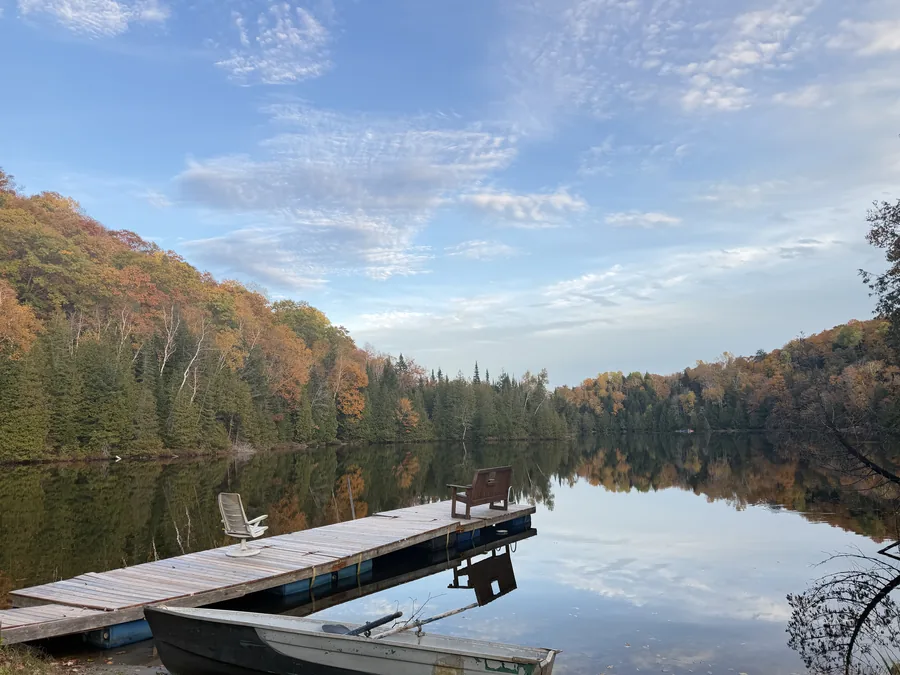
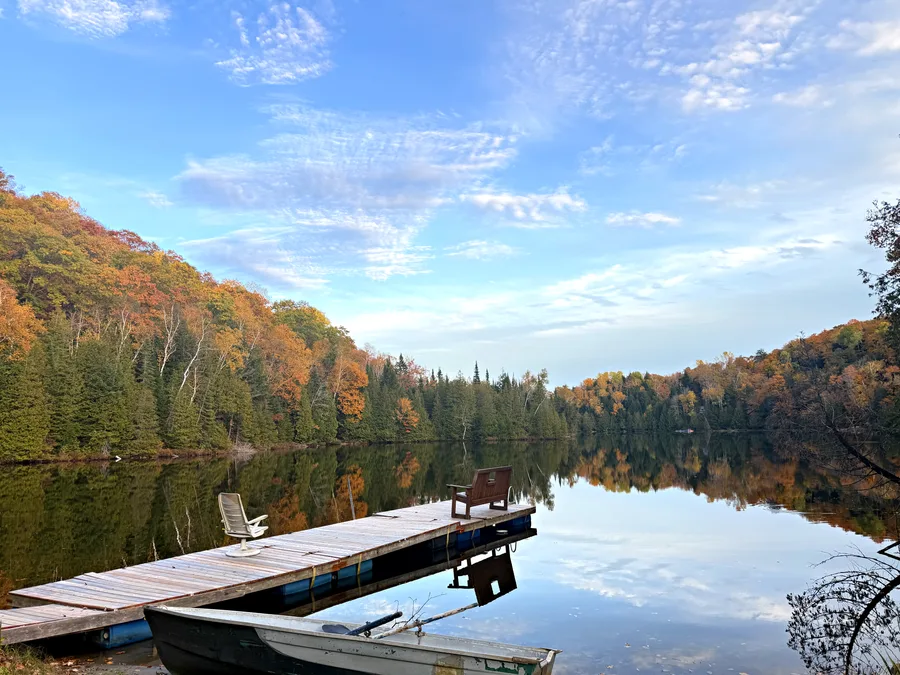
Refresh the Gallery with four Ontario photos
- Remove the barn path and canal clouds photos (Upper Canada Village)
- Add Mazinaw Rock and a starry night at Bon Echo, a tall ship in
  Toronto Harbour and storm clouds over Fort Niagara
- Restore the unfiltered whale photo
- Bring out the autumn colours in the lake dock photo

diff --git a/index.html b/index.html
@@ -455,6 +455,12 @@
                 <figcaption>Dusk over the reeds<span class="gallery-meta">Ste-Eulalie, QC · April 2024</span></figcaption>
             </figure>
             <figure class="gallery-item">
+                <button type="button" class="gallery-open" data-full="assets/img/gallery/mazinaw-rock.webp" aria-label="View larger: Mazinaw Rock above clear water">
+                    <img src="assets/img/gallery/mazinaw-rock-sm.webp" alt="Tall grey cliffs of Mazinaw Rock, topped with pines, rising from a lake with kayakers small at their foot, and clear shallow water over pebbles in front" width="780" height="900" loading="lazy">
+                </button>
+                <figcaption>Mazinaw Rock above clear water<span class="gallery-meta">Bon Echo Provincial Park, ON · August 2024</span></figcaption>
+            </figure>
+            <figure class="gallery-item">
                 <button type="button" class="gallery-open" data-full="assets/img/gallery/autumn-hill-mirror.webp" aria-label="View larger: An autumn hill mirrored at dusk">
                     <img src="assets/img/gallery/autumn-hill-mirror-sm.webp" alt="A hill of autumn forest reflected in a still lake under pink-tinged evening clouds" width="675" height="900" loading="lazy">
                 </button>
@@ -557,6 +563,12 @@
                 <figcaption>Snow on the crabapple branches<span class="gallery-meta">Quebec City, QC · January 2020</span></figcaption>
             </figure>
             <figure class="gallery-item">
+                <button type="button" class="gallery-open" data-full="assets/img/gallery/fort-niagara-storm.webp" aria-label="View larger: Storm clouds over Fort Niagara">
+                    <img src="assets/img/gallery/fort-niagara-storm-sm.webp" alt="Low grey storm clouds filling the sky above the stone walls and white buildings of Fort Niagara, seen across the green water of the Niagara River" width="675" height="900" loading="lazy">
+                </button>
+                <figcaption>Storm clouds over Fort Niagara<span class="gallery-meta">Niagara-on-the-Lake, ON · June 2024</span></figcaption>
+            </figure>
+            <figure class="gallery-item">
                 <button type="button" class="gallery-open" data-full="assets/img/gallery/forest-canopy-autumn.webp" aria-label="View larger: Under the first autumn colours">
                     <img src="assets/img/gallery/forest-canopy-autumn-sm.webp" alt="Looking up past tall trunks into a forest canopy turning red, orange and green, with mossy boulders below" width="675" height="900" loading="lazy">
                 </button>
@@ -629,10 +641,10 @@
                 <figcaption>An autumn cascade<span class="gallery-meta">Stoneham-et-Tewkesbury, QC · October 2020</span></figcaption>
             </figure>
             <figure class="gallery-item">
-                <button type="button" class="gallery-open" data-full="assets/img/gallery/village-canal-clouds.webp" aria-label="View larger: Spring clouds over the canal">
-                    <img src="assets/img/gallery/village-canal-clouds-sm.webp" alt="Big white clouds in a blue sky above a quiet canal, a lone bare tree and village houses along the bank" width="675" height="900" loading="lazy">
+                <button type="button" class="gallery-open" data-full="assets/img/gallery/toronto-tall-ship.webp" aria-label="View larger: A tall ship under gathering clouds">
+                    <img src="assets/img/gallery/toronto-tall-ship-sm.webp" alt="A three-masted tall ship on Lake Ontario in front of the Toronto skyline, under heavy grey and white clouds" width="900" height="645" loading="lazy">
                 </button>
-                <figcaption>Spring clouds over the canal<span class="gallery-meta">Upper Canada Village, ON · May 2023</span></figcaption>
+                <figcaption>A tall ship under gathering clouds<span class="gallery-meta">Toronto, ON · July 2021</span></figcaption>
             </figure>
             <figure class="gallery-item">
                 <button type="button" class="gallery-open" data-full="assets/img/gallery/autumn-forest-road.webp" aria-label="View larger: A forest road in autumn">
@@ -659,10 +671,10 @@
                 <figcaption>Percé Rock at the end of the day<span class="gallery-meta">Percé, QC · August 2024</span></figcaption>
             </figure>
             <figure class="gallery-item">
-                <button type="button" class="gallery-open" data-full="assets/img/gallery/village-barn-path.webp" aria-label="View larger: The old barn and its path">
-                    <img src="assets/img/gallery/village-barn-path-sm.webp" alt="Seen from above, a curving dirt path leading to a dark wooden barn on green grass beside the water, under scattered clouds" width="900" height="675" loading="lazy">
+                <button type="button" class="gallery-open" data-full="assets/img/gallery/bon-echo-starry-blossoms.webp" aria-label="View larger: Blossoms under the stars">
+                    <img src="assets/img/gallery/bon-echo-starry-blossoms-sm.webp" alt="Looking straight up at night: leafy branches and pale clusters of tiny flowers frame a patch of starry sky" width="900" height="675" loading="lazy">
                 </button>
-                <figcaption>The old barn and its path<span class="gallery-meta">Upper Canada Village, ON · May 2023</span></figcaption>
+                <figcaption>Blossoms under the stars<span class="gallery-meta">Bon Echo Provincial Park, ON · August 2024</span></figcaption>
             </figure>
             <figure class="gallery-item">
                 <button type="button" class="gallery-open" data-full="assets/img/gallery/fiery-clouds.webp" aria-label="View larger: Clouds on fire at dusk">
